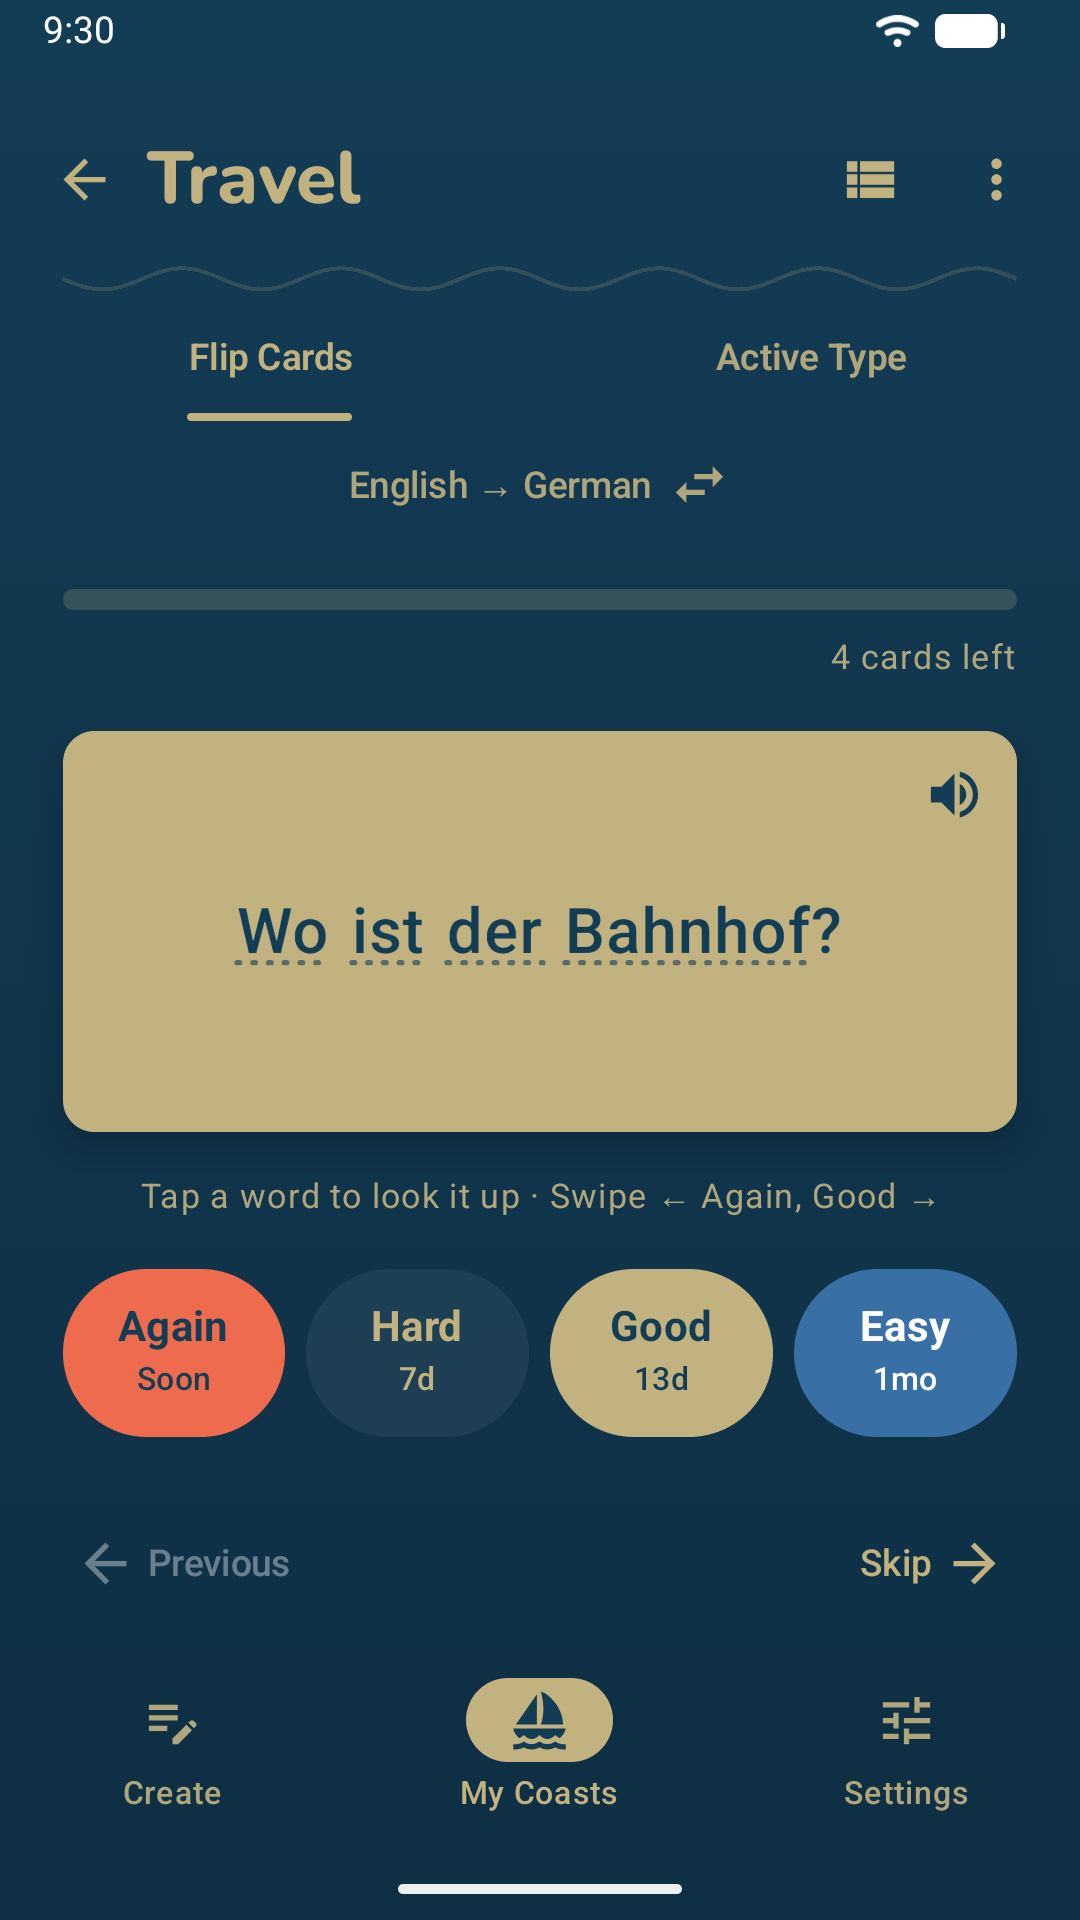
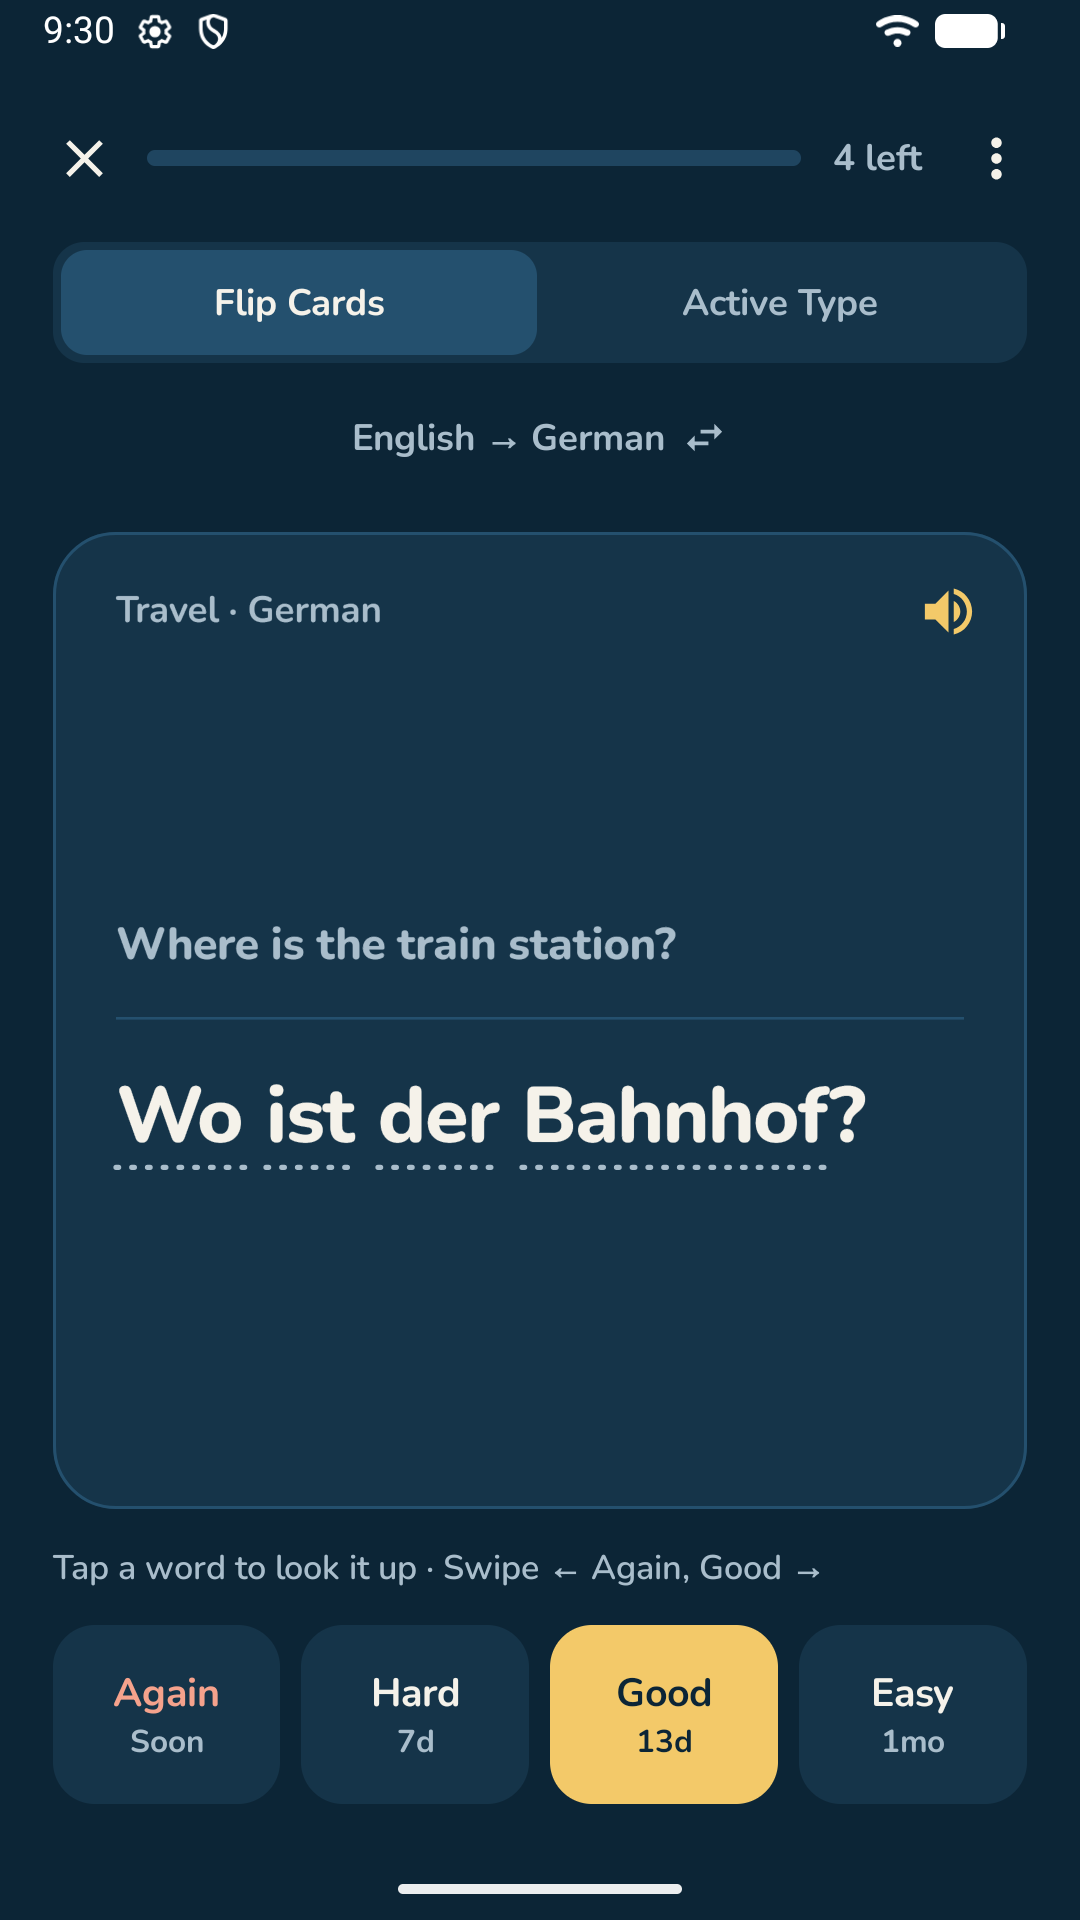
Retake the store and README screenshots for the redesign

diff --git a/README.md b/README.md
@@ -25,13 +25,13 @@ Language Coast is a flashcard app that changes how you build vocabulary. It comb
 
 <p align="center">
   <img src="docs/screenshots/create.png" alt="Home screen with today's due cards, the new card form and recently added cards" width="200" />
-  <img src="docs/screenshots/my-coast.png" alt="My Coasts with the study streak and a German and an Icelandic coast, each showing its due cards" width="200" />
-  <img src="docs/screenshots/coast.png" alt="German Coast with its Language Islands and how many cards on each are due" width="200" />
+  <img src="docs/screenshots/my-coast.png" alt="My Coasts with the study streak and German, Spanish and Italian coasts, each showing its due cards" width="200" />
+  <img src="docs/screenshots/coast.png" alt="German Coast with a button to review its busiest island, and its Language Islands with how many cards on each are due" width="200" />
   <img src="docs/screenshots/island-cards.png" alt="The cards of the Small Talk island with their translations, alternatives and when each is due" width="200" />
   <img src="docs/screenshots/study.png" alt="Flipped flashcard with the study direction, a read-aloud button and Again, Hard, Good and Easy buttons showing when the card comes back (Again: soon, in this session)" width="200" />
-  <img src="docs/screenshots/alternatives.png" alt="Sheet with other ways to say a sentence, a note on formal and informal forms, and read-aloud and Make main buttons" width="200" />
+  <img src="docs/screenshots/alternatives.png" alt="Sheet with other ways to say a sentence, with read-aloud and Make main buttons" width="200" />
   <img src="docs/screenshots/search.png" alt="Search results across all coasts, each showing its coast, island and when it is due" width="200" />
-  <img src="docs/screenshots/settings.png" alt="Settings with the native language and the choice of on-device, Gemini or OpenRouter translation" width="200" />
+  <img src="docs/screenshots/settings.png" alt="Settings with the native language and the choice of on-device, Local AI or cloud translation" width="200" />
   <img src="docs/screenshots/notification.png" alt="Daily study reminder saying how many cards are due" width="200" />
   <img src="docs/screenshots/widget.jpg" alt="Home-screen widget with the study streak and the cards due today" width="200" />
 </p>
